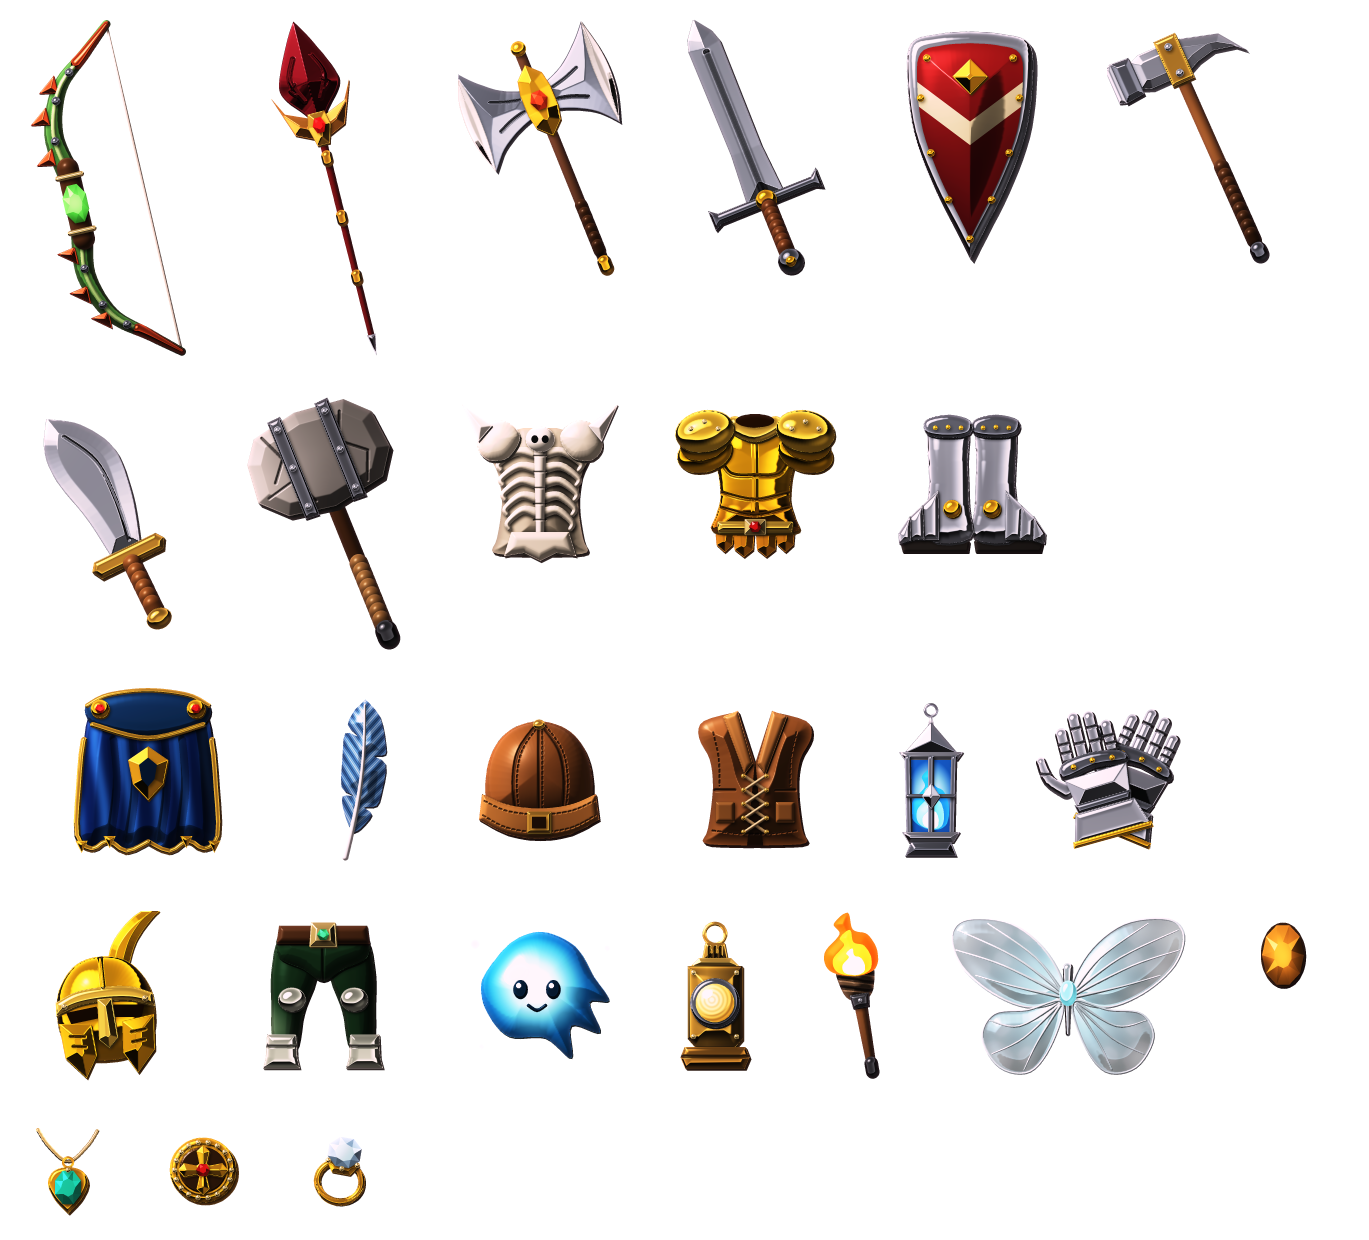
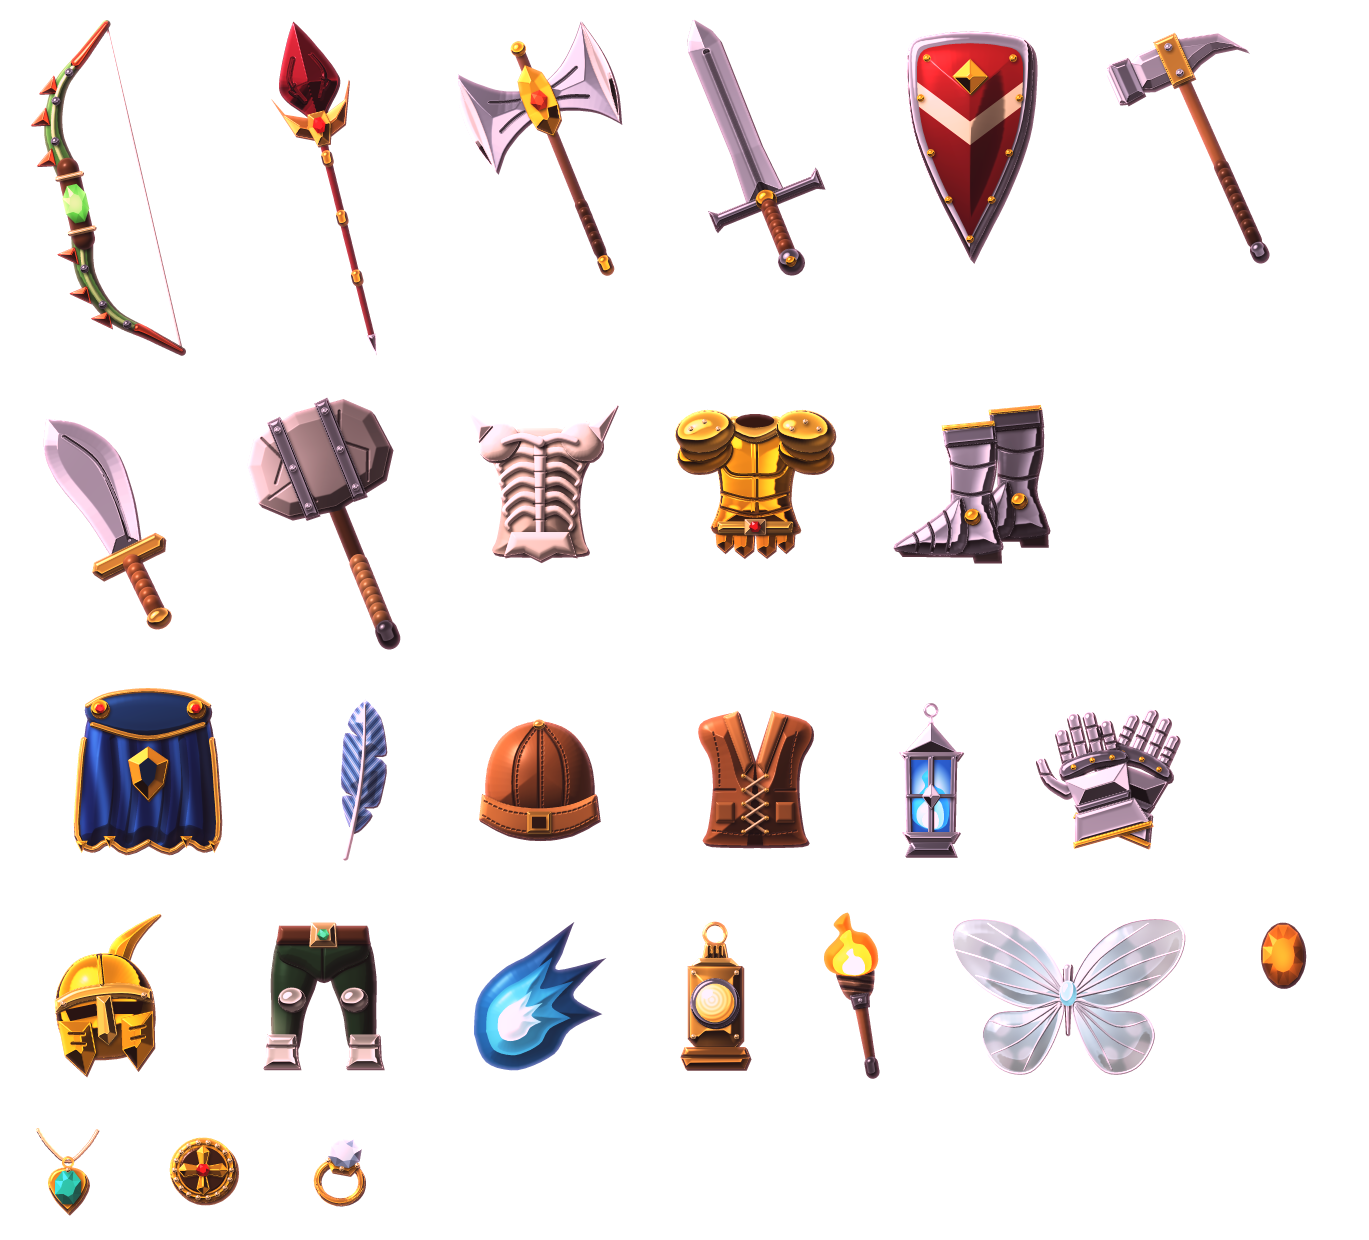
Items fix loop 1: redraw wisp and boots, strengthen Uncommon and Enhanced tiers, tidy helm, bone armour and amber gem

diff --git a/tools/ui-assets/gen_items.py b/tools/ui-assets/gen_items.py
@@ -697,7 +697,7 @@ def icon_gem_amber(s):
         return 0.55 * np.exp(-(((x - 10) / 3.4) ** 2 + ((y - 10.5) / 5.0) ** 2))
 
     s.ellipse(10, 10, 5.5, 8.1, gemstone("#3A2410"), prof="flat", cast=0.5, thick=(0.3, 0.4))
-    s.cut(10, 10, 5.2, 7.8, gemstone("#D9822A"), n=10, table=0.42, glow=glow)
+    s.cut(10, 10, 5.2, 7.8, gemstone("#C8701C"), n=12, table=0.56, glow=glow)
 
 
 def icon_pendant_ward(s):
@@ -713,7 +713,7 @@ def icon_pendant_ward(s):
 # 1x2 ----------------------------------------------------------------------------------
 
 
-def flame(s, cx, base, w, h, c_out="#E8480C", c_mid="#FFA61E", c_core="#FFF6C8"):
+def flame(s, cx, base, w, h, c_out="#E8480C", c_mid="#FFA61E", c_core="#FFF6C8", glow=1.0):
     def tongue(k, c, emis):
         ww, hh = w * k, h * k
         pts = cr([(cx - ww * 0.5, base - hh * 0.12), (cx - ww * 0.55, base - hh * 0.42), (cx - ww * 0.18, base - hh * 0.68),
@@ -722,9 +722,9 @@ def flame(s, cx, base, w, h, c_out="#E8480C", c_mid="#FFA61E", c_core="#FFF6C8")
                   (cx, base + hh * 0.03)], 6, True)
         s.poly(pts, dict(c=c, metal=0, gloss=20, spec=0.1, mott=0.05, tint=0.5, emis=emis), bevel=3, prof="pillow", slope=0.3, cast=0)
 
-    tongue(1.0, c_out, 0.65)
-    tongue(0.72, c_mid, 0.85)
-    tongue(0.42, c_core, 1.0)
+    tongue(1.0, c_out, 0.65 * glow)
+    tongue(0.72, c_mid, 0.85 * glow)
+    tongue(0.42, c_core, glow)
 
 
 def icon_feather_azure(s):
@@ -884,10 +884,9 @@ def icon_armor_bone(s):
         f = (lambda p: mirror(p, 20)) if flip else (lambda p: p)
         s.poly(f(cr([(25, 7), (29, 3.2), (34, 4.6), (35.6, 9.6), (33, 13), (28, 12.4)], 5, True)), BONE, bevel=4.8, slope=0.65, thick=(0.4, 0.6))
         s.poly(f([(32, 4.4), (reach, -0.8), (35.4, 8.4)]), M(BONE, c="#FBF6E6"), bevel=2.2, prof="chamfer", slope=0.8, thick=(0.3, 0.4))
-    # a small skull on the breast
-    s.ellipse(20, 7.8, 3.6, 3.2, M(BONE, c="#F6EFDC"), bevel=3.2, cast=0.7)
-    s.ellipse(18.7, 7.8, 0.85, 0.95, BLACK, prof="flat", cast=0)
-    s.ellipse(21.3, 7.8, 0.85, 0.95, BLACK, prof="flat", cast=0)
+    # collar bones tie the shoulders to the sternum
+    for side in (1, -1):
+        s.stroke(cr([(20, 8.6), (20 + side * 4.6, 7.2), (20 + side * 9, 8.4)], 5), 2.3, M(BONE, c="#F6EFDC"), width_end=1.6, cast=0.8)
 
 
 def gilded(**kw) -> dict:
@@ -897,7 +896,7 @@ def gilded(**kw) -> dict:
 def icon_helm_gilded(s):
     s.place(-6, 0.98, (20, 20))
     # tall thin crest sweeping up and back
-    crest = cr([(21.5, 9), (23.5, 2), (30, -4.5), (39, -7.5), (34, -3), (29.5, 2.4), (26.6, 9.6)], 6)
+    crest = cr([(21.5, 9), (23.5, 3), (29, -0.6), (36.6, -3.4), (33, -0.2), (29.2, 4), (26.6, 9.6)], 6)
     s.poly(crest, gilded(), bevel=1.8, prof="chamfer", slope=0.9, thick=(0.3, 0.4))
     # bowl
     bowl = cr([(8, 24), (8.2, 14), (13, 7), (20, 5), (27, 7), (31.8, 14), (32, 24), (28, 30), (20, 31.6), (12, 30)], 6, True)
@@ -1000,46 +999,57 @@ def icon_gloves_plate(s):
     gauntlet(s, -14, -6.4, 0.4)
 
 
-def sabaton(s, flip):
-    f = (lambda p: mirror(p, 20)) if flip else (lambda p: p)
-    s.poly(f([(0.6, 36.4), (4, 34), (17.6, 33.6), (19.4, 36), (19, 38.8), (1.2, 38.8)]), M(BLACK, c="#2C2824", metal=0.2), bevel=0.8, thick=(0.3, 0.5))
-    s.poly(f(cr([(8.6, 4), (18.4, 4), (18.8, 14), (19.2, 26), (19.6, 35), (8, 35), (8.4, 20)], 4, True)), STEEL, bevel=5, slope=0.6, thick=(0.4, 0.6))
-    for q in ([(10.8, 22), (11, 35.4), (6.4, 35.4), (6, 26.6)], [(6.6, 26), (7, 35.4), (3, 35.6), (2.8, 29.6)], [(3.2, 29), (3.4, 35.6), (0.2, 36.6), (0, 33.8)]):
-        s.poly(f(q), STEEL, bevel=2.2, slope=0.7, thick=(0.3, 0.4), cast=0.8)
-    s.poly(f(cr([(7.4, 3), (13.5, 1.4), (19.4, 3), (19.4, 6.8), (13.5, 7.8), (7.8, 6.8)], 4, True)), DARK_STEEL, bevel=1.5, thick=(0.3, 0.5), cast=0.7)
-    s.rivets(f([(10, 5), (13.5, 4.8), (17, 5)]), 0.6, GOLD)
-    s.groove(f(cr([(8.6, 13.5), (13.5, 14.6), (18.8, 13.5)], 4)), w=0.6, depth=0.55, dark=0.5)
-    s.ellipse(*f([(14.6, 27)])[0], 2.4, 2.4, GOLD, bevel=1.9, thick=(0.3, 0.4), cast=0.7)
+def sabaton(s, dx, dy, shade=1.0):
+    """One plate boot in side profile, toe to the left."""
+    o = lambda p: shift(p, dx, dy)  # noqa: E731
+    st = M(STEEL, c=col("#98A0AB") * shade)
+    dk = M(DARK_STEEL, c=col(DARK_STEEL["c"]) * shade)
+    sole = M(BLACK, c=col("#2C2824") * shade, metal=0.2)
+    # heel block and sole under everything
+    s.poly(o([(18, 34.6), (26.4, 34.6), (26.6, 39), (19, 39)]), sole, bevel=0.8, thick=(0.2, 0.4))
+    s.poly(o([(-2.6, 35), (19, 35), (19, 37.4), (-1, 37.2)]), sole, bevel=0.7, thick=(0.2, 0.4))
+    # greave: narrow at the ankle, swelling over the calf
+    shaft = cr([(11.4, 3.4), (23.4, 2.6), (25, 12), (23.2, 23), (25.8, 31), (25.8, 35.6), (13, 35.6), (12.6, 23), (12.4, 12)], 5, True)
+    s.poly(o(shaft), st, bevel=6, slope=0.55, thick=(0.4, 0.5))
+    # one smooth foot shell ending in a pointed toe; lame lines are cut into it, not stacked on it
+    foot = cr([(15.6, 21), (9.4, 25.6), (3.6, 29.8), (-1.2, 32.8), (-3.2, 34.6), (-1, 36), (15.8, 36)], 6, True)
+    s.poly(o(foot), st, bevel=5.4, slope=0.6, thick=(0.3, 0.4), cast=0.75)
+    for pts in ([(10.8, 25), (12.4, 30), (11.6, 36)], [(6.2, 28), (7.8, 32), (7.2, 36)], [(2.2, 30.8), (3.4, 33.4), (3, 36)]):
+        s.groove(o(cr(pts, 4)), w=0.55, depth=0.55, dark=0.45)
+    # ankle lames, cuff and pivot
+    s.groove(o(cr([(12.6, 19.4), (18, 20.4), (23.6, 19.4)], 4)), w=0.6, depth=0.55, dark=0.45, clip=False)
+    s.groove(o(cr([(12.4, 11.6), (18, 12.8), (24.6, 11.6)], 4)), w=0.6, depth=0.55, dark=0.45, clip=False)
+    cuff = [(10.2, 1.8), (24.6, 0.4), (25.2, 5.6), (11, 7)]
+    s.poly(o(cuff), dk, bevel=1.5, thick=(0.3, 0.4), cast=0.7)
+    s.poly(o([(10.1, 1.1), (24.6, -0.3), (24.7, 1.1), (10.2, 2.5)]), GOLD, bevel=0.6, cast=0.4)
+    s.ellipse(*o([(18.6, 26.4)])[0], 2.2, 2.2, GOLD, bevel=1.8, thick=(0.2, 0.3), cast=0.7)
 
 
 def icon_boots_plate(s):
-    s.place(0, 0.92, (20, 20))
-    sabaton(s, True)
-    sabaton(s, False)
+    s.place(0, 0.9, (20, 20))
+    sabaton(s, 11.5, -2.8, 0.68)
+    sabaton(s, -1.5, 1.6)
 
 
 def icon_pet_wisp(s):
-    s.place(0, 1.0)
+    """A dim captive flame: pale core, dark streaming tail, no face."""
+    # curves meet at hard tips, so the tail streams up and right in three tongues
+    outline = cr([(5, 28), (6, 19), (12, 12), (19, 8), (30, 0)], 5) + cr([(30, 0), (27, 8), (26, 12), (38, 9)], 5)[1:]
+    outline += cr([(38, 9), (32, 15), (30, 19), (37, 23)], 5)[1:] + cr([(37, 23), (29, 27), (25, 33), (16, 37), (8, 35), (5, 28)], 5)[1:-1]
+    head = (14.0, 26.0)
 
-    def body(x, y):
-        r = np.hypot((x - 19.5) / 12.5, (y - 19) / 12.5)
-        t = np.clip(r, 0, 1)[..., None]
-        c = col("#F2FEFF") * (1 - t) ** 2 + col("#6FE6EE") * 2 * t * (1 - t) + col("#1567A8") * t * t
-        return c
+    def layer(k, c0, c1, emis):
+        def paint(x, y):
+            t = np.clip(np.hypot(x - head[0], y - head[1]) / (30 * k), 0, 1)[..., None]
+            return col(c0) * (1 - t) + col(c1) * t
 
-    def lum(x, y):
-        return 0.86 * np.exp(-((np.hypot(x - 19.5, y - 19) / 12) ** 2))
+        pts = [(head[0] + (x - head[0]) * k, head[1] + (y - head[1]) * k) for x, y in outline]
+        mat = dict(c=c0, metal=0.1, gloss=60, spec=0.35, mott=0.08, tint=0.5)
+        s.poly(pts, mat, bevel=9 * k, prof="pillow", slope=0.45, paint=paint, emis=emis, cast=0.15)
 
-    tail = cr([(9, 12), (14, 7), (21, 5), (29, 8.6), (33.6, 16), (37.4, 22), (32.6, 22.6), (35.2, 30), (28, 28.4), (28, 36.4), (21.4, 31.4), (12.4, 31), (7, 25), (5.6, 18)], 6, True)
-    s.poly(tail, dict(c="#7FE8F2", metal=0.1, gloss=80, spec=0.7, mott=0.05, tint=0.4), bevel=14, prof="round", slope=0.55, paint=body, emis=lum, thick=(0.3, 0.4))
-    s.ellipse(14.6, 15.4, 3.6, 2.7, dict(c="#FFFFFF", metal=0, gloss=20, spec=0, mott=0, tint=0, emis=0.9), deg=-30, bevel=2, prof="pillow", cast=0)
-    # eyes give it a face: a pet, not just another orb
-    for x in (15.4, 23.6):
-        s.ellipse(x, 19.4, 1.8, 2.4, M(BLACK, c="#0C2A44"), bevel=1, cast=0.25)
-        s.ellipse(x - 0.5, 18.4, 0.65, 0.65, dict(c="#FFFFFF", metal=0, gloss=20, spec=0, mott=0, tint=0, emis=1.0), prof="flat", cast=0)
-    s.stroke(cr([(17.4, 23.4), (19.5, 24.6), (21.6, 23.4)], 4), 0.8, M(BLACK, c="#0C2A44"), cast=0.1)
-    for x, y, r in ((4, 8, 1.5), (37, 9, 1.1), (5.6, 33.6, 1.0)):
-        s.ellipse(x, y, r, r, dict(c="#BDF6FB", metal=0, gloss=60, spec=0.4, mott=0, tint=0.5, emis=0.85), bevel=r, cast=0)
+    layer(1.0, "#155C86", "#06162C", 0.35)
+    layer(0.66, "#3BA6BE", "#0E4468", 0.5)
+    layer(0.34, "#C8F0EC", "#3F9CB0", 0.62)
 
 
 # 2x4 ----------------------------------------------------------------------------------
@@ -1213,7 +1223,7 @@ RAMP_KEYS = {
 }
 UNCOMMON_TINT = "#F08FB0"
 RARE_KEY, RARE_RIM = "axe.cycle", "#F1C385"
-ENHANCED_CAP = 0.8
+ENHANCED_CAP = 0.55
 
 
 def luma(rgb: np.ndarray) -> np.ndarray:
@@ -1231,13 +1241,16 @@ def tier_variants(rgba: np.ndarray, mask: np.ndarray) -> dict:
         return np.dstack(((np.clip(c, 0, 1) * 255 + 0.5).astype(np.uint8), rgba[..., 3]))
 
     pink = col(UNCOMMON_TINT)
-    uncommon = rgb * (0.82 + 0.18 * pink / pink.max()) * 1.04 + rim * 0.10 * pink
+    uncommon = rgb * (0.55 + 0.45 * pink / pink.max()) * 1.1 + rim * 0.35 * pink + 0.09 * pink  # the lift reaches dark cloth, which a multiply cannot
     orange = col(RARE_KEY) * np.clip(lum * 1.75, 0, 1.25)
     amount = 0.3 + 0.6 * metal
     rare = rgb * (1 - amount) + orange * amount + rim * 0.34 * col(RARE_RIM)
+    # base hue survives: only metal goes gold, cloth and paint stay themselves but brighter
     gold = col("gold.material") * np.clip(lum * 1.7, 0, 1.2)
-    white = np.clip(0.2 + 0.8 * lum, 0, ENHANCED_CAP)
-    enhanced = (gold * (1 - white) + white) * np.clip(0.42 + lum * 1.3, 0, 1)
+    gilt = 0.12 + 0.55 * metal
+    warm = np.minimum((rgb * (1 - gilt) + gold * gilt) * 1.22, 0.92)
+    white = np.clip(0.05 + 0.5 * lum, 0, ENHANCED_CAP)
+    enhanced = warm * (1 - white) + white
     return {"uncommon": pack(uncommon), "rare": pack(rare), "enhanced": pack(enhanced)}
 
 

diff --git a/tools/ui-assets/tests/check_items.py b/tools/ui-assets/tests/check_items.py
@@ -82,6 +82,8 @@ def check_icons(doc: dict, sheet: np.ndarray) -> list[str]:
         if r["pivot"] != [24, 24]:
             errs.append(f"{name}: pivot {r['pivot']}")
         a = sheet[r["y"] : r["y"] + r["h"], r["x"] : r["x"] + r["w"], 3]
+        if a[0].any() or a[-1].any() or a[:, 0].any() or a[:, -1].any():
+            errs.append(f"{name}: art clipped by the sprite edge")
         x0, y0, x1, y1 = art_box(a)
         bw, bh = (x1 - x0) / s, (y1 - y0) / s
         if bw > w_u + 6 or bh > h_u + 6:
@@ -136,6 +138,27 @@ def check_variants(doc: dict, sheet: np.ndarray) -> list[str]:
                 near = (solid >= 247).all(axis=1).mean()
                 if near > 0.20:
                     errs.append(f"{name}: enhanced {near:.0%} near white")
+    return errs
+
+
+def check_tier_look(doc: dict, sheet: np.ndarray) -> list[str]:
+    """Tiers must be told apart at a glance, and Enhanced must keep the item's own hue."""
+    errs = []
+
+    def px(image, name):
+        r = doc["sprites"][name]
+        s = np.asarray(Image.open(ITEMS / image).convert("RGBA"))[r["y"] : r["y"] + r["h"], r["x"] : r["x"] + r["w"]]
+        return s[s[..., 3] > 200][:, :3].astype(float)
+
+    for name in sorted(FOOTPRINT):
+        base, unc = px("items.png", name), px("items_uncommon.png", name)
+        if np.abs(unc - base).mean() < 10:
+            errs.append(f"{name}: Uncommon too close to Common")
+        if (unc - base).mean(axis=0)[1] > (unc - base).mean(axis=0)[0]:
+            errs.append(f"{name}: Uncommon not shifted towards rose")
+    c = np.median(px("items_enhanced.png", "item.shield.kite"), axis=0)
+    if c[0] < c[2] + 40:
+        errs.append(f"enhanced shield lost its red: {c}")
     return errs
 
 
@@ -227,6 +250,7 @@ def main() -> int:
     errs += check_names(doc)
     errs += check_icons(doc, sheet)
     errs += check_variants(doc, sheet)
+    errs += check_tier_look(doc, sheet)
     errs += check_mask_semantics(doc)
     errs += check_aura(doc)
     errs += check_ramps()
